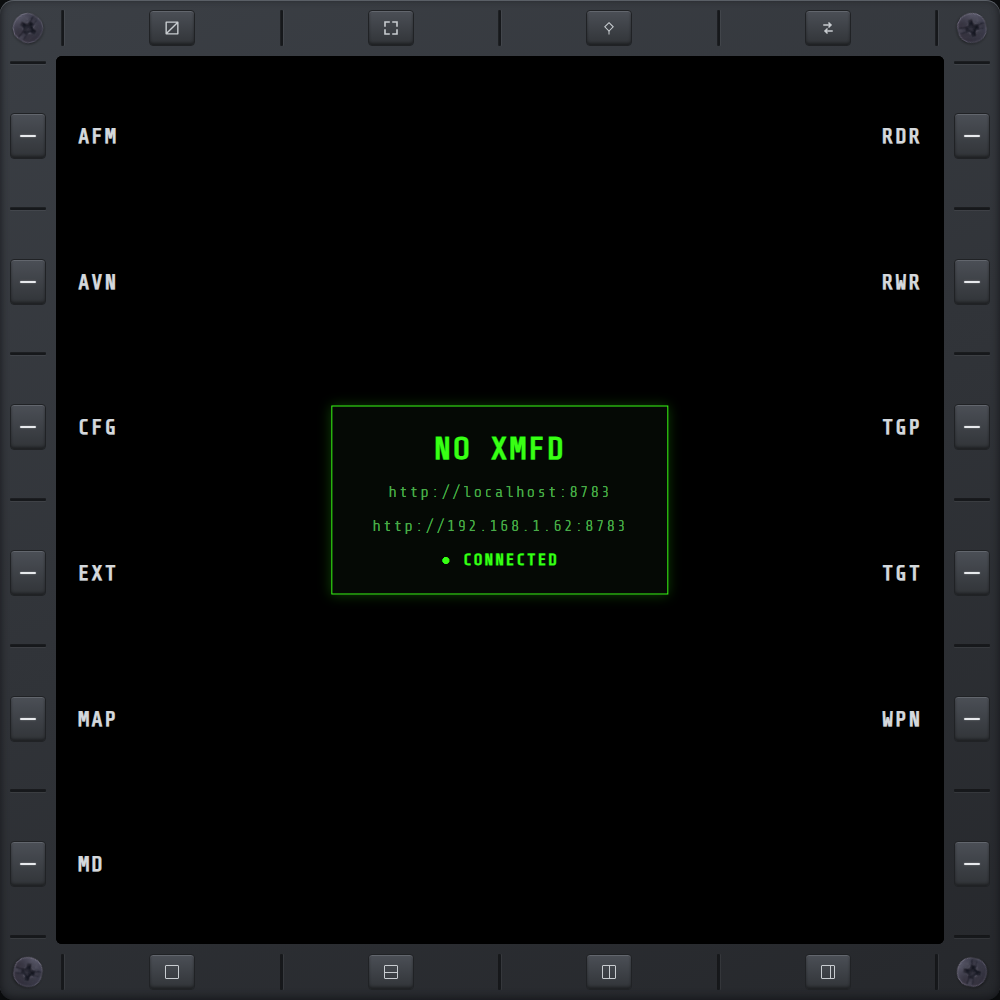
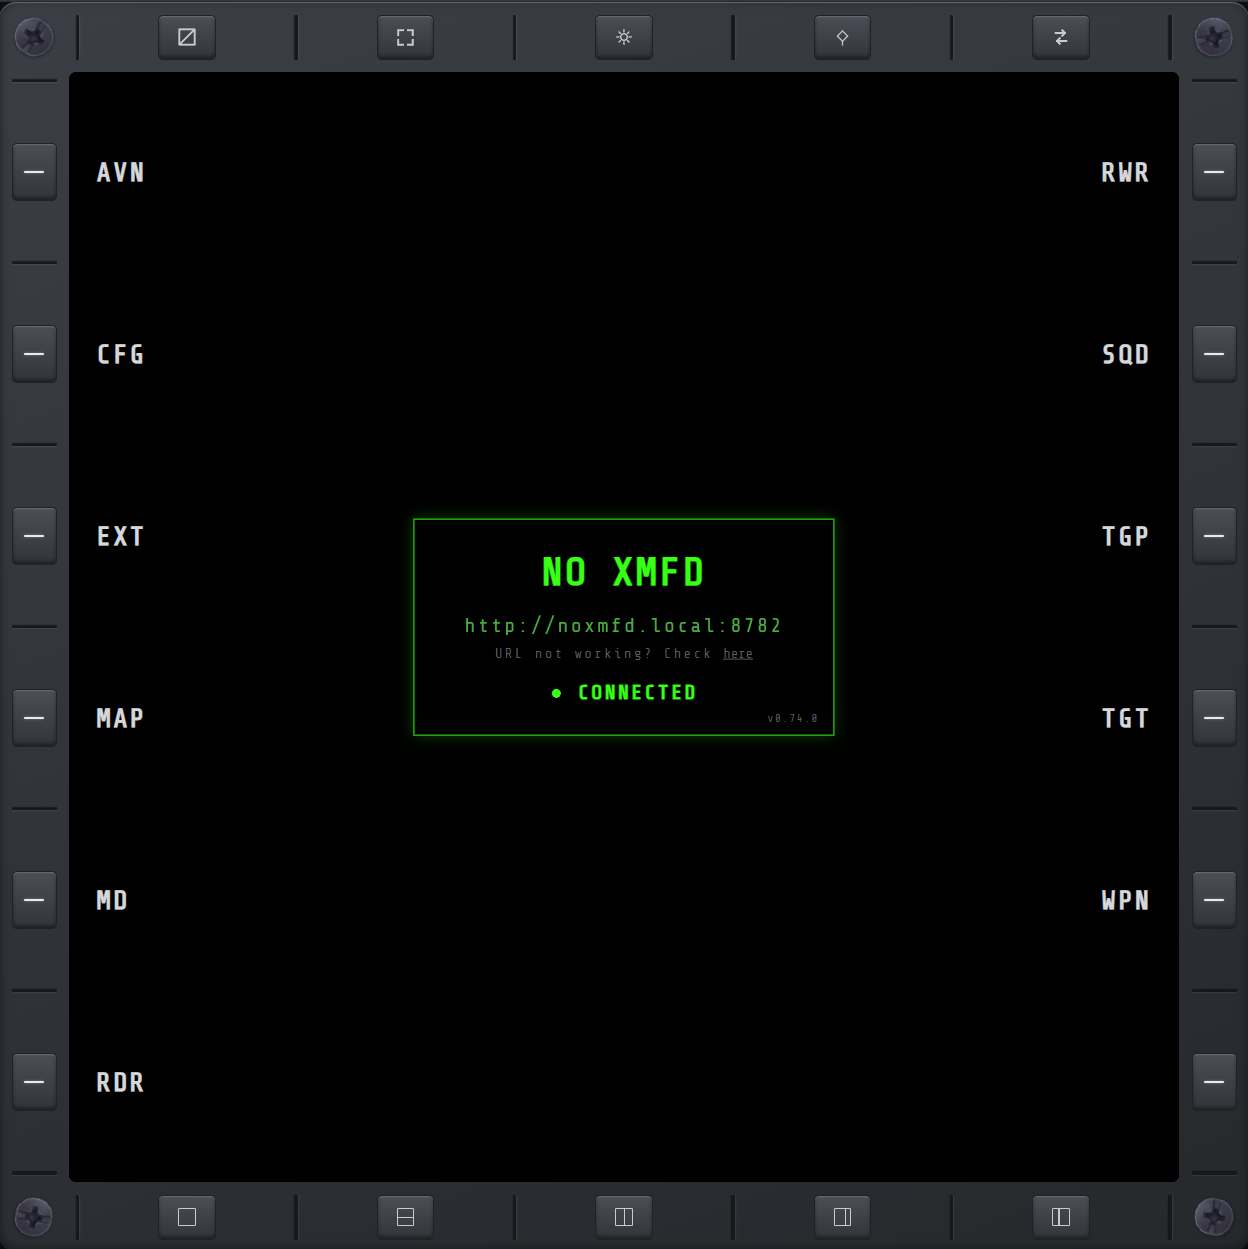
LAN name URL: screenshots and install steps
MAIN's manual screenshot shows the name URL card, plus one with PC/NET revealed; NETWORKING.md
shows LanName in the F1 menu. The README and Thunderstore install steps name noxmfd.local for
tablets and phones.

diff --git a/README.md b/README.md
@@ -46,8 +46,8 @@ NO XMFD for you, and keeps it up to date.
    — on Windows, the `portable.exe` or the `.msi` installer.
 2. **Find "Nuclear Option eXternal MFD"** in NOMM's mod list and install it. NOMM pulls in
    BepInEx automatically if it isn't already present.
-3. **Launch the game** and open `http://localhost:5005/` in a browser. To reach it from a
-   tablet or phone on your network, see [NETWORKING.md](NETWORKING.md).
+3. **Launch the game** and open `http://localhost:5005/` in a browser. From a tablet or phone on
+   your network, open `http://noxmfd.local:5005/` — see [NETWORKING.md](NETWORKING.md).
 
 </details>
 
@@ -66,7 +66,7 @@ NO XMFD for you, and keeps it up to date.
    ```
 
 4. **Launch the game.** Open `http://localhost:5005/` in a browser to see the
-   display. To reach it from a tablet or phone on your network, see
+   display. From a tablet or phone on your network, open `http://noxmfd.local:5005/` — see
    [NETWORKING.md](NETWORKING.md).
 
 </details>

diff --git a/NETWORKING.md b/NETWORKING.md
@@ -67,6 +67,8 @@ Your router can hand the game PC a different IP from time to time, which breaks 
 - **`http://noxmfd.local:5005/`**, by default. The mod answers for the name in `LanName` (see
   [Config](#config)) itself. Change it to any name you like; if two PCs on the same network run
   the mod, give each a different name (`noxmfd`, `noxmfd2`).
+
+  ![LanName in the BepInEx F1 menu's Network section](man/images/NETWORK_CONFIG.png)
 - **Your PC's own name**, e.g. `http://gaming-pc.local:5005/`, when `LanName` is cleared. Windows
   answers for its own name on the local network. The name is the one in Settings › System › About;
   a default like `DESKTOP-7F3K2QX` works but is easier to remember after renaming it. MAIN shows no

diff --git a/man/main.md b/man/main.md
@@ -18,6 +18,8 @@ Under it, **URL not working? Check here** — tap **here** to show the two other
   network, including ones that can't open the name address (older Android). It changes when the
   PC's IP does.
 
+![MAIN with the PC and NET addresses shown](images/MAIN_URLS.png)
+
 With no name address (LAN access off), MAIN lists the localhost address, plus the LAN address if
 there is one, with no hint. If the LAN address is missing, the server fell back to localhost-only —
 see [NETWORKING.md](../NETWORKING.md) for why and how to fix it.

diff --git a/thunderstore/README.md b/thunderstore/README.md
@@ -13,7 +13,8 @@ Developed with AI assistance (Claude).
 
 1. Install with the Thunderstore Mod Manager or r2modman. BepInEx is installed automatically.
 2. Launch the game through the mod manager.
-3. Open `http://localhost:5005/` in a browser. To use a tablet or phone on your network, see
+3. Open `http://localhost:5005/` in a browser. From a tablet or phone on your network, open
+   `http://noxmfd.local:5005/` — see
    [NETWORKING.md](https://github.com/roke77/NOXMFD/blob/main/NETWORKING.md).
 
 ## Your files
